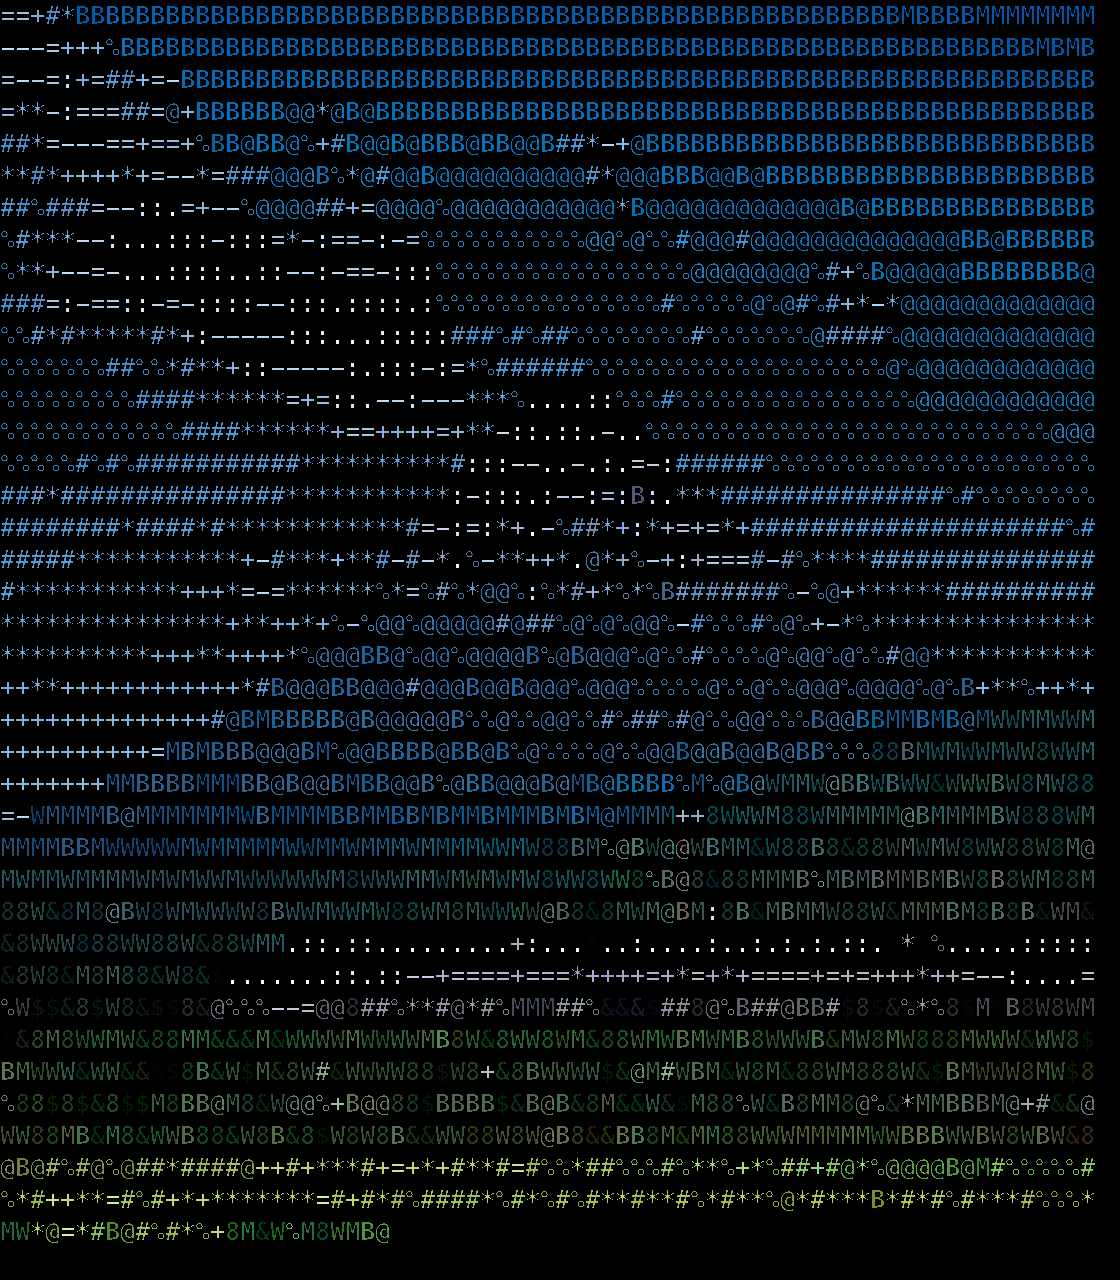
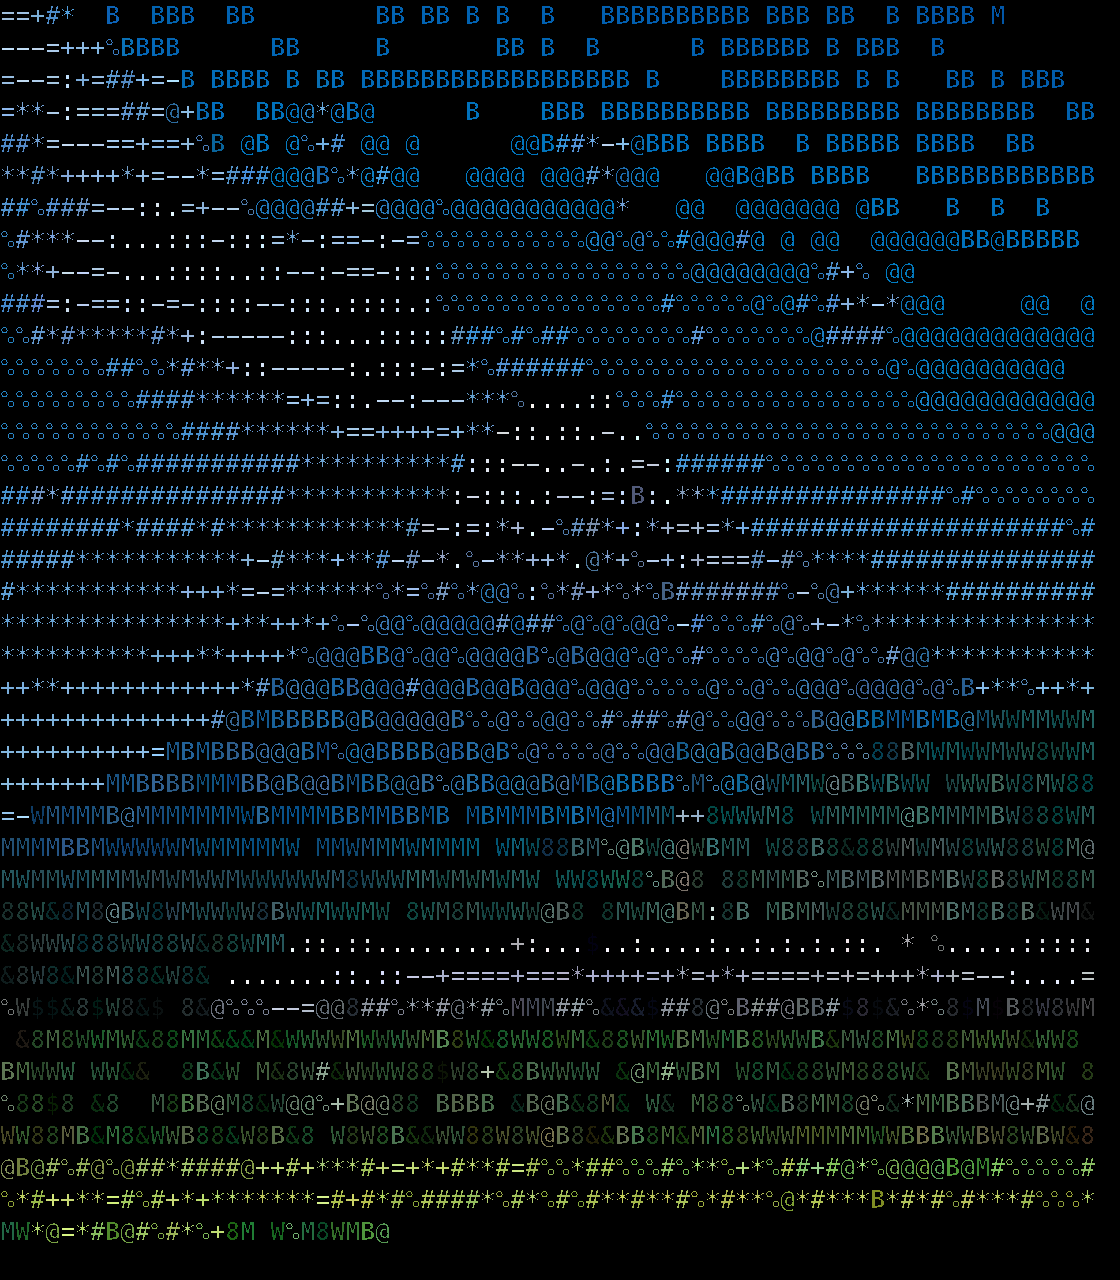
updates

diff --git a/src/main.c b/src/main.c
@@ -15,6 +15,7 @@
 
 #include <logic.h>
 #include <render.h>
+#include <utils.h>
 
 // Global application and window references
 GtkApplication *app;
@@ -70,20 +71,23 @@ int main(int argc, char **argv) {
   char *input_file = NULL, *output_file = NULL;
   uint8_t *rgb_image = NULL;
   unsigned char *ascii_colors = NULL;
-  int verbose = 0, help_flag = 0, render = 0, auto_flag = 0;
+  int verbose = 0, help_flag = 0, render = 0, auto_flag = 0, no_jpeg_flag = 0;
+  uint8_t bg_color_render = 0;
+
+  JPGMemoryBuffer jpg_buffer = {0};
 
   // Define command line options
   static struct option long_options[] = {{"input", required_argument, 0, 'i'},
                                          {"output", required_argument, 0, 'o'},
+                                         {"render", required_argument, 0, 'r'},
                                          {"verbose", no_argument, 0, 'v'},
                                          {"auto", no_argument, 0, 'a'},
                                          {"help", no_argument, 0, 'h'},
-                                         {"renderimage", no_argument, 0, 'r'},
                                          {0, 0, 0, 0}};
 
   // Parse command line arguments
   int opt;
-  while ((opt = getopt_long(argc, argv, "i:o:vhra", long_options, NULL)) !=
+  while ((opt = getopt_long(argc, argv, "i:o:r:vha", long_options, NULL)) !=
          -1) {
     switch (opt) {
     case 'i':
@@ -101,6 +105,15 @@ int main(int argc, char **argv) {
       break;
     case 'r':
       render = 1;
+      if (!strcmp(optarg, "black")) {
+        bg_color_render = 0;
+      } else if (!strcmp(optarg, "white")) {
+        bg_color_render = 255;
+      } else {
+        printf("-r, --render determines the background color.\n");
+        printf("And just can take two values : black - white\n");
+        return EXIT_FAILURE;
+      }
       break;
     case 'h':
       help_flag = 1;
@@ -110,7 +123,8 @@ int main(int argc, char **argv) {
       printf("  $ ascii-parser filename.png output.txt 300 200 --render\n");
       printf("  $ ascii-parser filename.png output.txt 40 --render\n");
       printf("Flags:\n");
-      printf(" -r, --renderimage : Generate colored PNG of ASCII art\n");
+      printf(
+          " -r, --render= black | white : Generate colored PNG of ASCII art\n");
       return 1;
     default:
       fprintf(stderr, "Argument processing error\n");
@@ -145,7 +159,7 @@ int main(int argc, char **argv) {
   }
 
   // Load image data
-  rgb_image = stbi_load(input_file, &img_width, &img_height, &img_bpp, 3);
+  rgb_image = stbi_load(input_file, &img_width, &img_height, &img_bpp, 0);
   if (verbose) {
     printf("Image dimensions: %dx%d, BPP: %d\n", img_width, img_height,
            img_bpp);
@@ -195,7 +209,7 @@ int main(int argc, char **argv) {
     if (render) {
       renderAsciiPNG(output_file, rgb_image, img_width, img_height,
                      img_width / out_w, img_height / out_h, img_bpp, out_w,
-                     out_h, ascii_colors);
+                     out_h, ascii_colors, bg_color_render);
       printf("PNG rendering complete\n");
     }
     free(ascii_colors);
@@ -206,6 +220,9 @@ int main(int argc, char **argv) {
   }
 
   // Cleanup
+  if (no_jpeg_flag) {
+    free(jpg_buffer.data);
+  }
   stbi_image_free(rgb_image);
   return EXIT_SUCCESS;
 }

diff --git a/src/render.c b/src/render.c
@@ -26,7 +26,8 @@
  */
 int renderAsciiPNG(char *output_filename, uint8_t *rgb_image, int w, int h,
                    int w_step, int h_step, int channels, int output_w,
-                   int output_h, unsigned char *ascii_colors) {
+                   int output_h, unsigned char *ascii_colors,
+                   uint8_t bg_color) {
   // creare the img data
   float char_h = 32.0f;
   float char_w = char_h / 2;
@@ -38,7 +39,7 @@ int renderAsciiPNG(char *output_filename, uint8_t *rgb_image, int w, int h,
     printf("Error: Failed to allocate pixel buffer\n");
     return 1;
   }
-  memset(pixels, 0, width * height * 3);
+  memset(pixels, bg_color, width * height * 3);
 
   // load font file
   unsigned char *font_buffer = NULL;
@@ -93,7 +94,7 @@ int renderAsciiPNG(char *output_filename, uint8_t *rgb_image, int w, int h,
     stbtt_MakeCodepointBitmap(&font, bitmap, x1 - x0, y1 - y0, x1 - x0, scale,
                               scale, render_char);
 
-    // Draw character with ASCII colors
+    // draw character with ascii colors
     for (int dy = 0; dy < y1 - y0; dy++) {
       for (int dx = 0; dx < x1 - x0; dx++) {
         int pos_pixel = ((y + y0 + dy) * width + (x + x0 + dx)) * 3;
@@ -102,6 +103,11 @@ int renderAsciiPNG(char *output_filename, uint8_t *rgb_image, int w, int h,
           pixels[pos_pixel] = ascii_colors[counter * 3];
           pixels[pos_pixel + 1] = ascii_colors[counter * 3 + 1];
           pixels[pos_pixel + 2] = ascii_colors[counter * 3 + 2];
+        } else if (bitmap[dy * (x1 - x0) + dx] == 0 &&
+                   counter < output_w * output_h) {
+          pixels[pos_pixel] = bg_color;
+          pixels[pos_pixel + 1] = bg_color;
+          pixels[pos_pixel + 2] = bg_color;
         }
       }
     }
@@ -110,7 +116,7 @@ int renderAsciiPNG(char *output_filename, uint8_t *rgb_image, int w, int h,
     counter++;
   }
 
-  // Save PNG
+  // save to png
   char png_filename[256];
   snprintf(png_filename, sizeof(png_filename), "%s.png", output_filename);
   if (!stbi_write_png(png_filename, width, height, 3, pixels, width * 3)) {
@@ -253,4 +259,12 @@ int get_text_from_file(char *filename, char **full_content) {
     printf("Error: Failed to open text file\n");
     return 1;
   }
+}
+
+// Callback para escribir JPG en memoria
+void jpg_write_to_memory(void *context, void *data, int size) {
+  JPGMemoryBuffer *buffer = (JPGMemoryBuffer *)context;
+  buffer->data = realloc(buffer->data, buffer->size + size);
+  memcpy(buffer->data + buffer->size, data, size);
+  buffer->size += size;
 }

diff --git a/include/render.h b/include/render.h
@@ -3,6 +3,12 @@
 #include <stdint.h>
 #include "stb/stb_truetype.h"
 
+typedef struct {
+  uint8_t  *data;
+  size_t size;
+} JPGMemoryBuffer;
+
+
 /*
  * @brief Renders ASCII art to a PNG image
  * @param output_filename Base output filename
@@ -19,7 +25,7 @@
  */
 int renderAsciiPNG(char *output_filename, uint8_t *rgb_image, int w, int h,
                    int w_step, int h_step, int channels, int output_w,
-                   int output_h, unsigned char *ascii_colors) ;
+                   int output_h, unsigned char *ascii_colors, uint8_t bg_color) ;
 
 /*
  * @brief Load a stb_truetype font
@@ -38,6 +44,6 @@ int load_font(char *font_filename, unsigned char *font_buffer,   stbtt_fontinfo 
  */
 int get_text_from_file(char *filename, char **full_content) ;
 
-
-
 char switch_to_render_char(char *c);
+
+void jpg_write_to_memory(void *context, void *data, int size); 

diff --git a/src/logic.c b/src/logic.c
@@ -35,10 +35,18 @@ int parse2file(char *output_filename, uint8_t *rgb_image, int width, int height,
   for (int y = 0; y < height; y += h_step) {
     for (int x = 0; x < width; x += w_step) {
       size_t index = (y * width + x) * channels;
-      unsigned char r = rgb_image[index];
-      unsigned char g = rgb_image[index + 1];
-      unsigned char b = rgb_image[index + 2];
-
+      unsigned char r;
+      unsigned char g;
+      unsigned char b;
+      if (rgb_image[index] && rgb_image[index + 1] && rgb_image[index + 2]) {
+        r = rgb_image[index];
+        g = rgb_image[index + 1];
+        b = rgb_image[index + 2];
+      } else {
+        r = 0;
+        g = 0;
+        b = 0;
+      }
       int intensity = (r + g + b) / 3;
       int gradient_index = (intensity * (num_chars - 1)) / 255;
       fprintf(asciifile, "%c", gradient[gradient_index]);

diff --git a/src/utils.c b/src/utils.c
@@ -1,0 +1,9 @@
+#include <string.h>
+#include <utils.h>
+
+const char *get_filename_ext(const char *filename) {
+  const char *dot = strrchr(filename, '.');
+  if (!dot || dot == filename)
+    return "";
+  return dot + 1;
+}

diff --git a/include/utils.h b/include/utils.h
@@ -1,0 +1,4 @@
+#include <string.h>
+
+const char *get_filename_ext(const char *filename) ;
+
